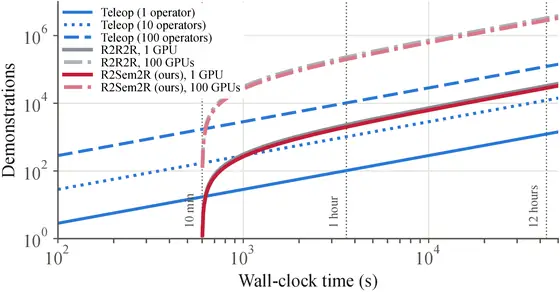
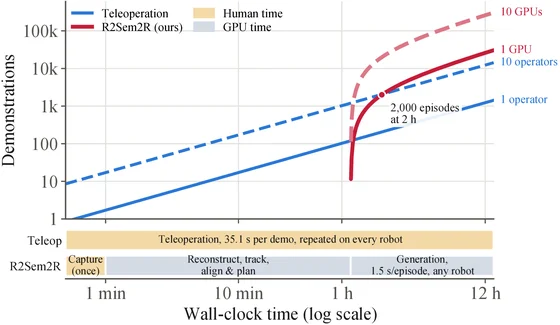
Cost figure thumbnail and alt text match the new plot

Changed region(s): [[0.0, 0.0, 1.0, 1.0], [0.9411, 0.6164, 0.9714, 0.7705], [0.1518, 0.8938, 0.2429, 0.9247]]

diff --git a/index.html b/index.html
@@ -645,7 +645,7 @@ parallel. In every episode the carry replays the mug trajectory tracked from the
         <figcaption><b>Object diversity versus data source.</b> Training on the single demonstrated mug and machine transfers poorly whether the data is teleoperated or generated. Several objects help either way, and cousins let generated data cover them.</figcaption></figure>
       <figure><a href="static/images/data_scaling.png"><img src="static/images/thumbs/data_scaling.webp" loading="lazy" alt="Line chart of success against the number of training episodes on a log scale, for teleoperation on several objects, R2Sem2R across cousins, teleoperation on one pair, and R2R2R+ on one pair."></a>
         <figcaption><b>Success against training-set size</b> on xArm7 placement. R2R2R+ levels off below 40%, while R2Sem2R keeps improving and passes the largest teleoperated set.</figcaption></figure>
-      <figure><a href="static/images/scaling_comparison.png"><img src="static/images/thumbs/scaling_comparison.webp" loading="lazy" alt="Log-log plot of demonstrations produced against wall-clock time for teleoperation with 1, 10 and 100 operators and for R2R2R+ and R2Sem2R with 1 and 100 GPUs."></a>
+      <figure><a href="static/images/scaling_comparison.png"><img src="static/images/thumbs/scaling_comparison.webp" loading="lazy" alt="Log-log plot of demonstrations against wall-clock time for teleoperation with 1 and 10 operators and for R2Sem2R with 1 and 10 GPUs; R2Sem2R reaches 2,000 episodes at about 2 hours. Strips below show capture, processing and generation time."></a>
         <figcaption><b>Demonstrations against wall-clock time.</b> Teleoperation grows linearly with human time. Generated data needs a short one-time setup and then scales with GPUs.</figcaption></figure>
     </div>
   </details>
